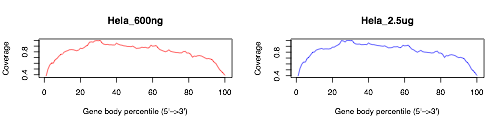
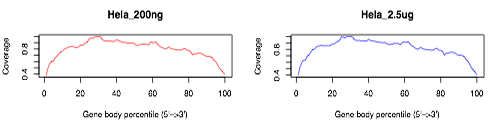
RNA建库图片大小

diff --git a/library_build/KC_RNA.md b/library_build/KC_RNA.md
@@ -31,32 +31,32 @@ medicine: true
 
 <img src="/image/library_build/KC_RNA/0.png">
 
-上表为普通商品化建库试剂盒2.5ug RNA和KC-RNA建库技术600ng RNA起始量进行建库的测序质量汇总比较。</p>         
+上表为普通商品化建库试剂盒2.5ug RNA和KC-RNA建库技术200ng RNA起始量进行建库的测序质量汇总比较。</p>         
 
 
 
 ### 2.reads在全基因组的分布情况比较
 <img class="fig30" src="/image/library_build/KC_RNA/2.png">
 
-上图为普通商品化建库试剂盒2.5ug RNA和KC-RNA建库技术600ng RNA起始量进行建库的测序reads在全基因组的分布情况比较。
+上图为普通商品化建库试剂盒2.5ug RNA和KC-RNA建库技术200ng RNA起始量进行建库的测序reads在全基因组的分布情况比较。
 
 ### 3.Reads在基因上的分布均一性比较
 <img class="fig70" src="/image/library_build/KC_RNA/3.png">
 
-上图为普通商品化建库试剂盒2.5ug RNA和KC-RNA建库技术600ng RNA起始量进行建库的测序reads在基因body的分布情况比较。
+上图为普通商品化建库试剂盒2.5ug RNA和KC-RNA建库技术200ng RNA起始量进行建库的测序reads在基因body的分布情况比较。
 
 ### 4.RPKM值的比较
 
 <img class="fig40" src="/image/library_build/KC_RNA/4.png">
 
 
-上图为普通商品化建库试剂盒2.5ug RNA和KC-RNA建库技术600ng RNA起始量进行建库测序的PRKM值比较。
+上图为普通商品化建库试剂盒2.5ug RNA和KC-RNA建库技术200ng RNA起始量进行建库测序的PRKM值比较。
 
 
 ### 5.样本相关性分析
  <img class="fig40" src="/image/library_build/KC_RNA/5.png">
 
-上图为普通商品化建库试剂盒2.5ug RNA和KC-RNA建库技术600ng RNA起始量进行建库测序的相关性分析，两种建库方法的生物学重复的皮尔逊相关系数R达到0.99。
+上图为普通商品化建库试剂盒2.5ug RNA和KC-RNA建库技术200ng RNA起始量进行建库测序的相关性分析，两种建库方法的生物学重复的皮尔逊相关系数R达到0.99。
 
 ## 产品服务
 
